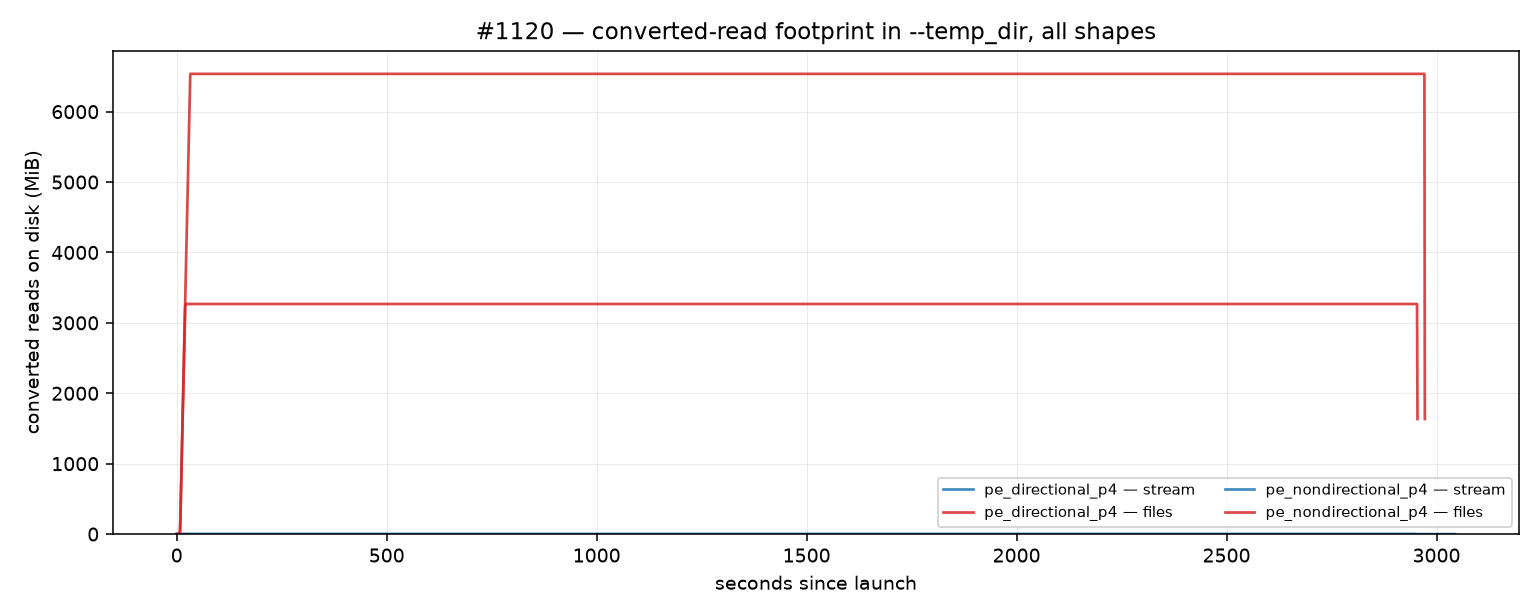
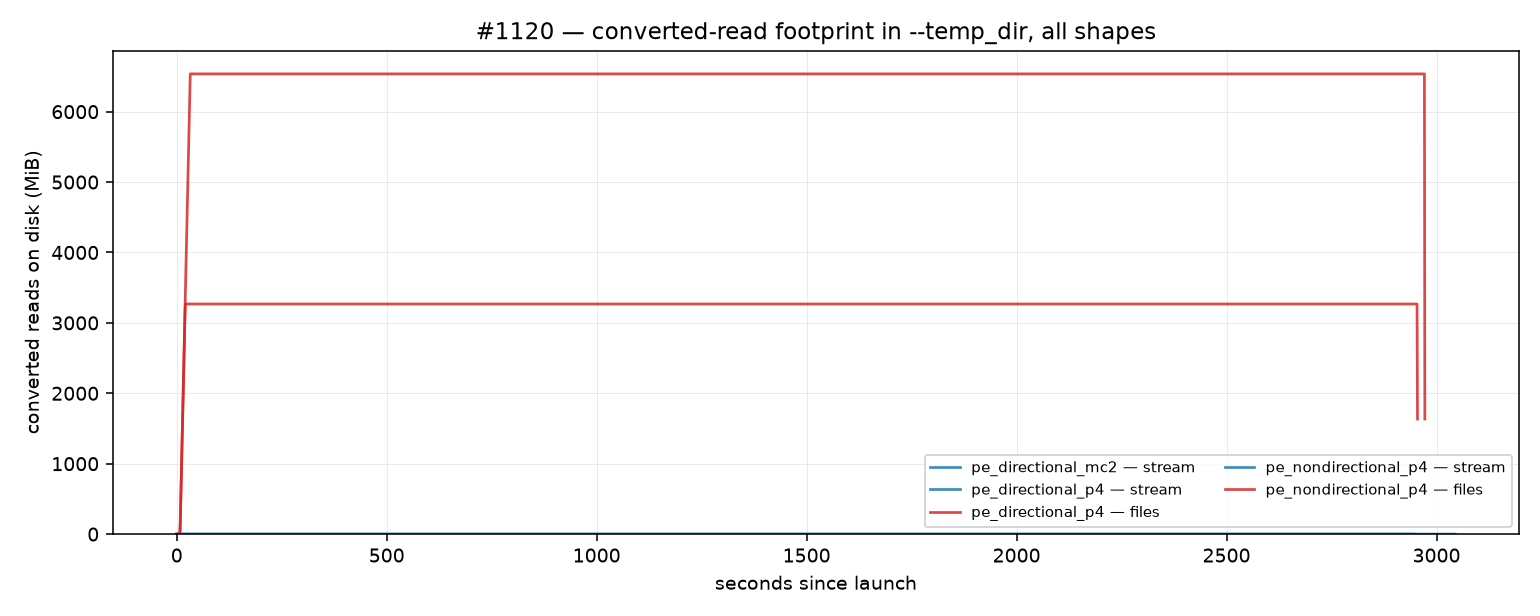
validation: non-directional at 10M: C1/C2 pass, C3 2.4% slower streamed (#1120 full-scale)
Automated snapshot from the running validation. See
plans/09112026_stream-converted/fullscale/RESULTS.md.

Changed region(s): [[0.5922, 0.7094, 0.9974, 0.8636]]

diff --git a/plans/09112026_stream-converted/fullscale/RESULTS.md b/plans/09112026_stream-converted/fullscale/RESULTS.md
@@ -197,3 +197,48 @@ Measured across the whole process tree under the widest fan-out available
 Worth noting from the same run: all four conversion streams logged
 `no temp file written`, so non-directional paired-end under `--multicore` streams every one
 of its eight pipes.
+
+### 4.3 `pe_nondirectional_p4` at 10,000,000 pairs (2026-09-11)
+
+Non-directional paired-end, `-p 4` — 4 converted streams and 8 pipes, against the directional
+case's 2 and 4.
+
+| | wall | converted on disk (peak, live) | peak memory, total | peak memory, anon | records |
+|---|---|---|---|---|---|
+| **streamed** | 3045.2 s | **0 KB** | 22.95 GiB | 22.77 GiB | 12,131,470 |
+| **files** | **2973.2 s** | **6.38 GiB** | 30.58 GiB | 23.96 GiB | 12,131,470 |
+
+**C1 — PASS.** md5 over all 12,131,470 records matches; filtered report identical.
+
+**C2 — PASS.** Zero against 6.38 GiB — twice the directional footprint, as expected from four
+converted streams rather than two.
+
+**C3 — streaming is 2.4 % SLOWER on this shape.** 72 seconds on a ~50-minute run. Total CPU
+was near-identical (25,029 vs 24,962 CPU-seconds, 0.3 % apart), so the streamed arm did the
+same work spread over a longer wall.
+
+This is the first cost the feature has shown, and it is the opposite sign to §4.1. The CPU
+traces explain it:
+
+| | early phase (p90) | settles to | tail |
+|---|---|---|---|
+| streamed | 1462 % | flat ~650 % from t=753 s | none — all four finish together |
+| files | 1623 % | ~800 % | drops below 800 % at t=1812 s, coasts out on fewer instances |
+
+The file arm still has the decoupling tail described in §4.1, but here it also front-loads
+harder, and the early advantage more than pays for the tail. With four consumers sharing two
+converted streams there is less slack in the fan-out than with two, so pacing costs something
+where previously it cost nothing.
+
+**Still inside the pass criterion** (§6 asks for "within a few percent") but it is n=1 and it
+wants reps before anyone concludes anything. If 2.4 % proves consistent it is the first real
+argument for raising `CHANNEL_DEPTH`. See §4.5.
+
+> A prediction recorded during the run, and wrong: watching the file arm's CPU collapse to
+> 400 % mid-run, this session expected the tail to make the file arm *slower* overall. It
+> finished 72 s sooner. A visible inefficiency in one phase says nothing about total wall time
+> until the other phases are measured too.
+
+**Memory.** The file arm's 30.58 GiB total is mostly page cache for its own converted files.
+But its *anonymous* memory is 1.2 GiB higher too, so on this shape streaming saves a little
+real allocation as well — the opposite direction to the concern §2 raised.
